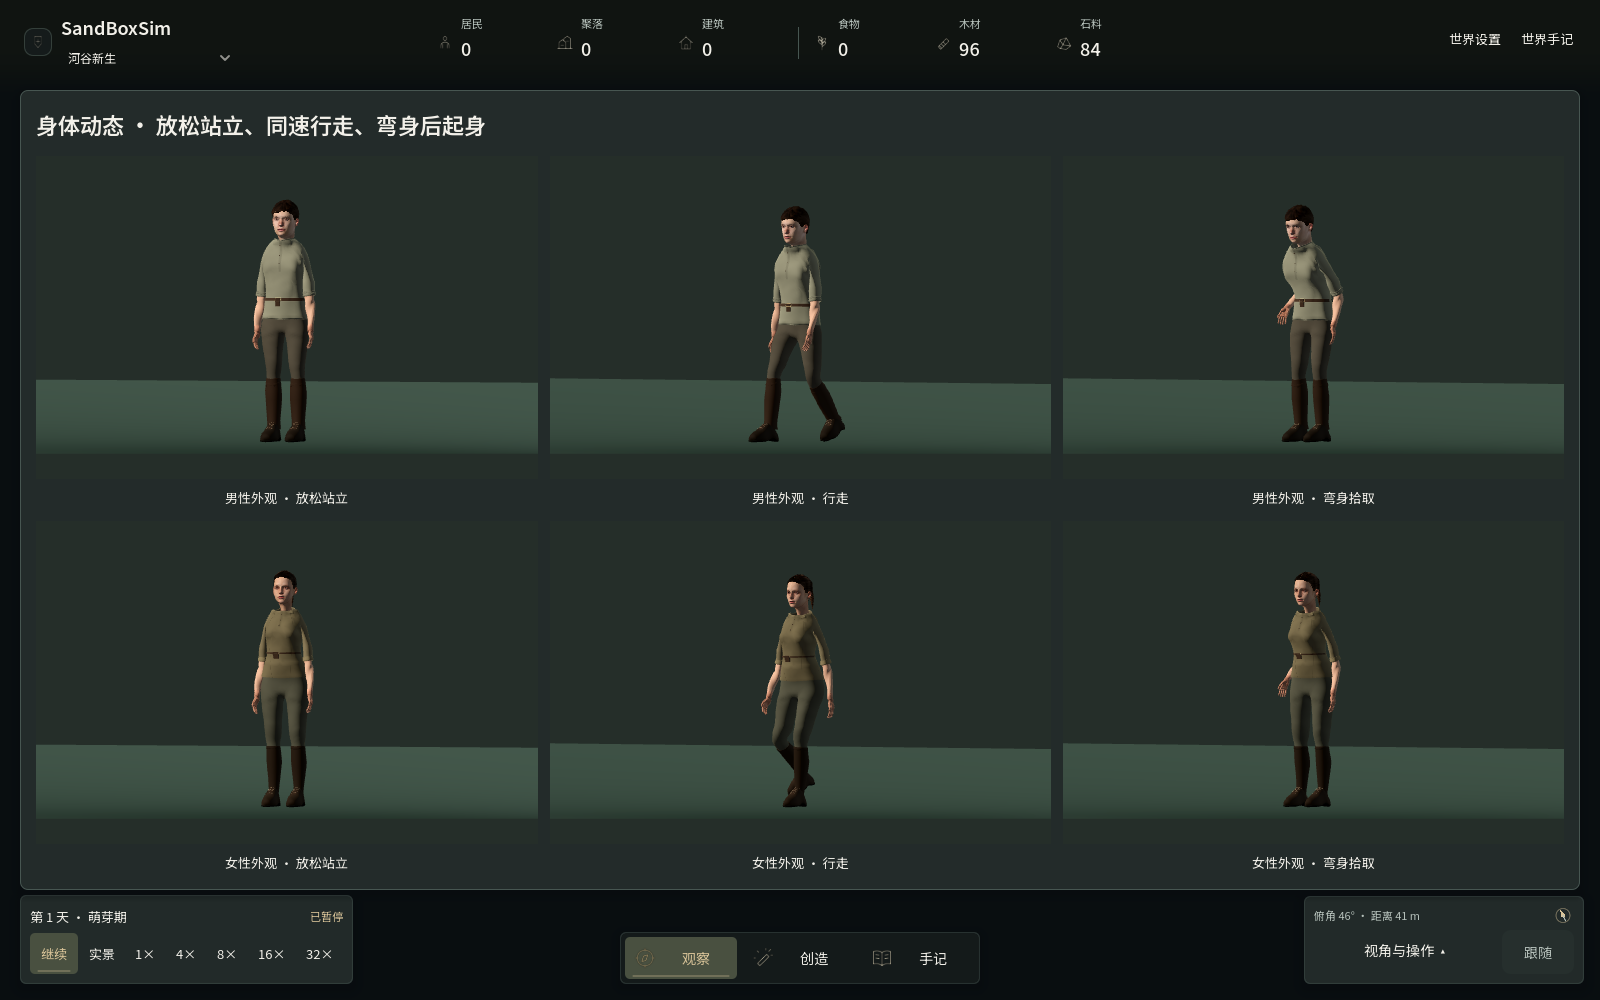
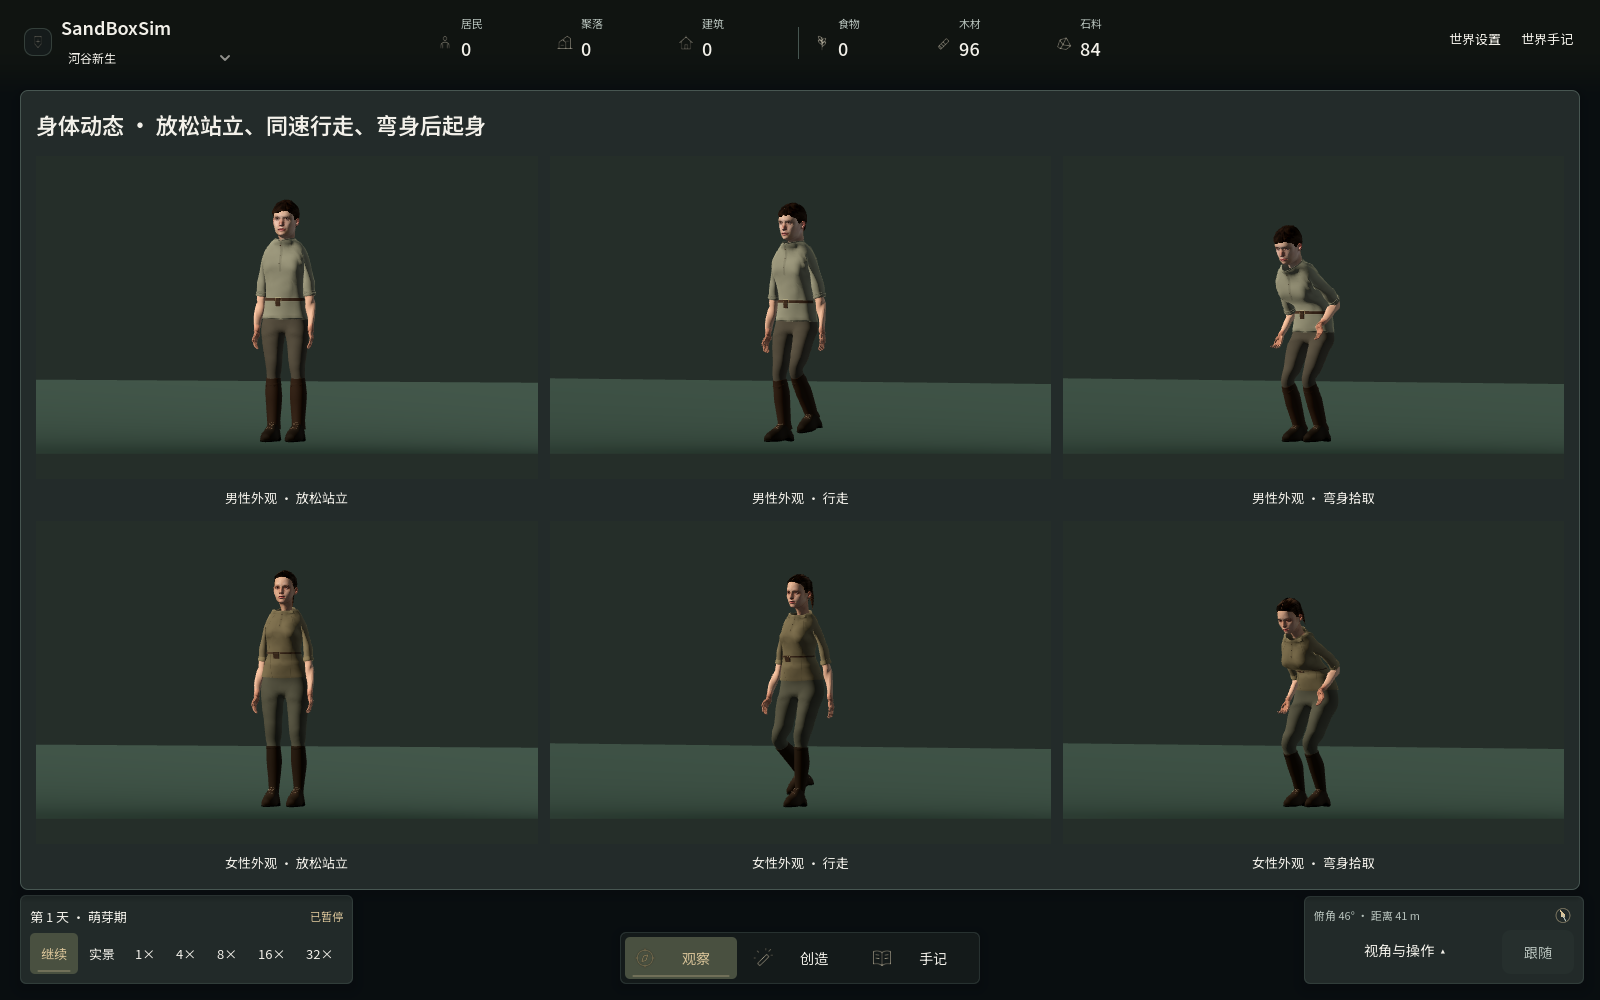
Shape female pelvic contours and preserve hip flex volume

Changed region(s): [[0.7812, 0.558, 0.8438, 0.806], [0.7812, 0.217, 0.8438, 0.434], [0.4688, 0.217, 0.5312, 0.465]]

diff --git a/src/SandBoxSim.Godot/NatureModels.Trousers.cs b/src/SandBoxSim.Godot/NatureModels.Trousers.cs
@@ -52,6 +52,13 @@ internal sealed partial class NatureModels
             FairRestSurface(points,ids,freedom,.006f,true);
             TransportFairingNormals(rest,points,normals,ids,freedom);
             FitFemaleTrouserLegs(points,normals,ids);
+            rest=(Vector3[])points.Clone();
+            for(int i=0;i<points.Length;i++)
+            {
+                points[i]=FemalePelvicPoint(rest[i]);
+                freedom[i]=points[i]==rest[i]?0:1;
+            }
+            TransportFairingNormals(rest,points,normals,ids,freedom);
         }
         var arrays=new Godot.Collections.Array();arrays.Resize((int)Mesh.ArrayType.Max);
         var seam=new Vector2[count];
@@ -66,7 +73,7 @@ internal sealed partial class NatureModels
         if(BodyFrame==1)
         {
             mesh.AddBlendShape("LeftHipFlex");mesh.AddBlendShape("RightHipFlex");
-            for(int side=0;side<2;side++)bends.Add(BakeTrouserHipFlex(points,normals,ids,side));
+            for(int side=0;side<2;side++)bends.Add(BakeTrouserHipFlex(points,normals,ids,b,w,side));
             mesh.AddBlendShape("LeftKneeFlex");mesh.AddBlendShape("RightKneeFlex");
             for(int side=0;side<2;side++)bends.Add(BakeTrouserKneeFlex(points,normals,ids,b,w,side));
         }
@@ -132,10 +139,13 @@ internal sealed partial class NatureModels
         return shape;
     }
 
-    private static Godot.Collections.Array BakeTrouserHipFlex(Vector3[] rest,Vector3[] restNormals,int[] ids,int side)
+    private const float TrouserHipFlexAngle=.62f;
+    private static Godot.Collections.Array BakeTrouserHipFlex(Vector3[] rest,Vector3[] restNormals,int[] ids,int[] bones,float[] weights,int side)
     {
         var points=(Vector3[])rest.Clone();var normals=(Vector3[])restNormals.Clone();
         var freedom=new float[rest.Length];
+        var rotation=new Basis(Vector3.Right,TrouserHipFlexAngle);
+        var pivot=new Vector3((side==0?-1:1)*ResidentRig.NeutralHipHalfWidth,ResidentRig.HipHeight,0);
         for(int i=0;i<rest.Length;i++)
         {
             var p=rest[i];float x=MathF.Abs(p.X);
@@ -143,10 +153,16 @@ internal sealed partial class NatureModels
             float panel=Mathf.SmoothStep(.54f,.65f,p.Y)*(1-Mathf.SmoothStep(.75f,.83f,p.Y))*Mathf.SmoothStep(.028f,.080f,x);
             float front=Mathf.SmoothStep(.014f,.071f,-p.Z),rear=Mathf.SmoothStep(.017f,.084f,p.Z);
             float fold=(p.Y-(.723f-.27f*(x-.09f)))/.034f;
-            float diagonal=.010f*MathF.Exp(-fold*fold)*front;
-            // The raised leg compresses the front cloth into a broad diagonal
-            // fold and retains a rounded transition behind the pelvis.
-            points[i].Z+=panel*(.007f*rear-diagonal);
+            float diagonal=.008f*MathF.Exp(-fold*fold)*front;
+            float thighWeight=0;
+            for(int j=0;j<4;j++)if(bones[i*4+j]==side+1)thighWeight+=weights[i*4+j];
+            var lever=p-pivot;
+            var linear=new Basis(Vector3.Right,Vector3.Up.Lerp(rotation.Y,thighWeight),Vector3.Back.Lerp(rotation.Z,thighWeight));
+            var arc=new Basis(Vector3.Right,TrouserHipFlexAngle*thighWeight)*lever;
+            // Restore the outside arc lost to linear skinning at the hip.
+            // The front of the bend retains the separate compression fold.
+            var edit=(linear.Inverse()*arc-lever)*rear-Vector3.Back*diagonal;
+            points[i]+=panel*edit.LimitLength(.010f);
             freedom[i]=panel*(front+rear);
         }
         TransportFairingNormals(rest,points,normals,ids,freedom);
@@ -267,7 +283,12 @@ internal sealed partial class NatureModels
                 if(skeleton.GetBonePose(1)!=frozen)throw new InvalidOperationException("Paused trousers continue moving");
                 for(int shape=0;shape<shapeWeights.Length;shape++)
                     if(shapeWeights[shape]!=rig.Trousers.GetBlendShapeValue(shape))throw new InvalidOperationException("Paused trouser correctives continue moving");
-                if(shapeWeights.Length>0)ValidateKneeCloth(rig,p,b,w,targets);
+                if(shapeWeights.Length>0)
+                {
+                    ValidateFemalePelvicContour(p,ids);
+                    ValidateHipCloth(p,b,w,targets);
+                    ValidateKneeCloth(rig,p,b,w,targets);
+                }
                 rig.ValidateDistanceMeshes();if(rig.Trousers.Mesh!=mesh)throw new InvalidOperationException("Distance change replaces the bound lower garment");
             }
             finally{rig.Free();}
@@ -279,6 +300,46 @@ internal sealed partial class NatureModels
         if(maximumKneeEdit<.003f||peakKneeWeights[0]<.1f||peakKneeWeights[1]<.1f)
             throw new InvalidOperationException($"Knee cloth does not respond in actual resident poses: {peakKneeWeights[0]:F3}/{peakKneeWeights[1]:F3}");
         GD.Print($"FEMALE_KNEE_FLEX_PASS: left/right peak={peakKneeWeights[0]:F3}/{peakKneeWeights[1]:F3}, maximum cloth edit={maximumKneeEdit*1000:F2} mm");
+    }
+
+    private static void ValidateFemalePelvicContour(Vector3[] points,int[] indices)
+    {
+        using var source=JsonDocument.Parse(FileAccess.GetFileAsString("res://assets/models/human/trousers-female.mesh.json"));
+        var coords=source.RootElement.GetProperty("positions");
+        var original=new Vector3[coords.GetArrayLength()/3];
+        for(int i=0;i<original.Length;i++)original[i]=new(coords[i*3].GetSingle(),coords[i*3+1].GetSingle(),coords[i*3+2].GetSingle());
+        var sourceTopology=source.RootElement.GetProperty("indices");
+        var originalIndices=new int[sourceTopology.GetArrayLength()];
+        for(int i=0;i<originalIndices.Length;i++)originalIndices[i]=sourceTopology[i].GetInt32();
+        float upper=GarmentDepth(original,originalIndices,.032f,.827f,true)-GarmentDepth(points,indices,.032f,.827f,true);
+        float lower=GarmentDepth(points,indices,.085f,.725f,true)-GarmentDepth(original,originalIndices,.085f,.725f,true);
+        if(!float.IsFinite(upper)||upper<.006f||upper>.013f||!float.IsFinite(lower)||lower<.001f||lower>.009f)
+            throw new InvalidOperationException($"Female pelvic contour loses its rear depth transition: upper={upper:F4}, lower={lower:F4}");
+        GD.Print($"FEMALE_PELVIC_CONTOUR_PASS: upper rear depth reduced by {upper*1000:F1} mm, rear thigh transition filled by {lower*1000:F1} mm on actual meshes");
+    }
+
+    private static void ValidateHipCloth(Vector3[] points,int[] bones,float[] weights,Vector3[][] targets)
+    {
+        float before=0,after=0;int samples=0;
+        var rotation=new Basis(Vector3.Right,TrouserHipFlexAngle);
+        for(int i=0;i<points.Length;i++)
+        {
+            var point=points[i];
+            if(point.Y<.67f||point.Y>.77f||point.Z<.060f||MathF.Abs(point.X)<.060f)continue;
+            int side=point.X<0?0:1;
+            float thigh=0;
+            for(int j=0;j<4;j++)if(bones[i*4+j]==side+1)thigh+=weights[i*4+j];
+            if(thigh<.15f||thigh>.85f)continue;
+            var axis=new Vector3(point.X,ResidentRig.HipHeight,0);
+            var lever=point-axis;
+            var corrected=targets[side][i]-axis;
+            before+=MathF.Abs(lever.Length()-lever.Lerp(rotation*lever,thigh).Length());
+            after+=MathF.Abs(lever.Length()-corrected.Lerp(rotation*corrected,thigh).Length());
+            samples++;
+        }
+        if(samples<20||after>=.80f*before)
+            throw new InvalidOperationException($"Hip correction does not preserve the rear cloth radius: {samples}, {before}/{after}");
+        GD.Print($"HIP_CLOTH_RADIUS_PASS: {samples} posterior samples, mean radius loss={1000*before/samples:F2} -> {1000*after/samples:F2} mm");
     }
 
     private static void ValidateKneeCloth(ResidentRig rig,Vector3[] points,int[] bones,float[] weights,Vector3[][] targets)

diff --git a/src/SandBoxSim.Godot/NatureModels.ThoraxSupport.cs b/src/SandBoxSim.Godot/NatureModels.ThoraxSupport.cs
@@ -39,6 +39,18 @@ internal sealed partial class NatureModels
             waist*((.0015f+.003f*abdomen)*front+.003f*lumbar));
     }
 
+    private static Vector3 FemalePelvicPoint(Vector3 point)
+    {
+        // Rebalance the sagittal contour between the upper seat and the
+        // rear thigh. Keep hip breadth, waistband and the inner leg fixed.
+        float rear=TorsoRamp(.026f,.076f,point.Z);
+        float upper=TorsoRamp(.774f,.819f,point.Y)*(1-TorsoRamp(.839f,.900f,point.Y));
+        float lower=TorsoRamp(.659f,.713f,point.Y)*(1-TorsoRamp(.740f,.794f,point.Y))
+            *TorsoRamp(.033f,.068f,MathF.Abs(point.X));
+        point.Z+=rear*(.005f*lower-.009f*upper);
+        return point;
+    }
+
     // Continuous anterior volume on the existing adult thorax, not attached
     // cup primitives. Leave the sternum, lateral wall and upper shoulder fixed.
     private static Vector3 ChestVolumePoint(Vector3 p)
@@ -108,11 +120,11 @@ internal sealed partial class NatureModels
         for(int row=0;row<TrunkRows;row++)
         {
             float y=TrunkLow+row*.005f;
-            if(y<=.875f||y>=1.235f)continue;
+            if(y>=1.235f)continue;
             for(int col=0;col<TrunkColumns;col++)
             {
                 float a=col*Mathf.Tau/TrunkColumns,r=source[row*TrunkColumns+col];
-                var p=ChestVolumePoint(BalancedTorsoPoint(MedialThoraxPoint(new(MathF.Cos(a)*r,y,MathF.Sin(a)*r))));
+                var p=FemalePelvicPoint(ChestVolumePoint(BalancedTorsoPoint(MedialThoraxPoint(new(MathF.Cos(a)*r,y,MathF.Sin(a)*r)))));
                 ring[col]=new(p.X,p.Z);
             }
             // Re-intersect the mapped polygon. Scaling radii directly would

diff --git a/docs/images/README.md b/docs/images/README.md
@@ -1,6 +1,6 @@
 # SandBoxSim 实机图册
 
-本页基础配图来自 2026-11-06 的 SandBoxSim 客户端，游戏源码为 `b396be219d860f4997484a092d051009afa97659`。同日的抬臂图采用后领与上背修形版本，步态对照静态图采用靴筒重塑版本，女性成衣、全身三视图和全身姿势图采用职业衣装分版后的模型。各批均使用 Godot 4.7.2 .NET 和 GL Compatibility，静态图默认 1600×1000。地图和人物观察窗使用世界中的实际对象，模型图册使用与世界共用的网格和控制器。帧号为从零开始的表现帧。
+本页基础配图来自 2026-11-06 的 SandBoxSim 客户端，游戏源码为 `b396be219d860f4997484a092d051009afa97659`。同日的抬臂图采用后领与上背修形版本，步态对照静态图采用靴筒重塑版本，女性成衣采用职业衣装分版后的模型，全身三视图和姿势图采用骨盆与大腿修形后的模型。各批均使用 Godot 4.7.2 .NET 和 GL Compatibility，静态图默认 1600×1000。地图和人物观察窗使用世界中的实际对象，模型图册使用与世界共用的网格和控制器。帧号为从零开始的表现帧。
 
 ## 世界与操作界面
 
@@ -38,7 +38,7 @@
 | 成人头脸 | `visual-faces`、`visual-face-frames` 第 90 帧 | [三种头脸](resident-face-detail.png) · [成人外观对照](resident-face-frames.png) |
 | 三种衣装的正背面 | `visual-wardrobe`、`visual-female-wardrobe` 第 90 帧 | [男性成衣](wardrobe-detail.png) · [女性成衣](resident-female-wardrobe.png) |
 | 手部、前臂和腕部 | `visual-hands`、`visual-forearm-frames` 第 90 帧，`visual-wrist-motion` 第 150 帧 | [握持](resident-hand-detail.png) · [前臂三视图](resident-forearm-frames.png) · [腕部近景](resident-wrist-motion.png) |
-| 静立、步行与拾取 | `visual-body-motion` 第 150 帧 | [全身姿势](resident-body-motion.png) |
+| 静立、步行与拾取 | `visual-body-motion` 第 105 帧 | [全身姿势](resident-body-motion.png) |
 | 同速步行、搬运和持锤 | `visual-locomotion` 第 180 帧 | [步态对照](resident-style-walk.png) |
 | 交谈、递交与进食 | `visual-social` 第 150 帧 | [生活动作](resident-social.png) |
 | 同工具与不同疲劳状态 | `visual-work-effort` 第 180 帧 | [作业姿态](resident-work-effort.png) |

diff --git a/docs/development/models.md b/docs/development/models.md
@@ -432,6 +432,8 @@
 
 ### 连续骨盆与臀腿裤装
 
+成年女性的后侧骨盆与大腿沿同一深度场过渡。上臀部的后向凸起收顺，后侧大腿上段保留少量体积。深度场同时应用于人体支撑截面和裤装，正面宽度、裤腰顶边及靴口保持原位。裤装的实际截面仍作为上衣的覆盖参考。抬腿时，后侧修形按髋骨权重补偿线性蒙皮在弧线中间损失的半径，前侧保留单独的压褶。`FEMALE_PELVIC_CONTOUR_PASS` 比较成品网格的后侧截面，`HIP_CLOTH_RADIUS_PASS` 检查固定弯曲姿态下的后侧半径，实际拾取、行走和作业另作连续姿态检查。[下半身体型的分区扫描研究](https://kftrj.org/_PR/view/?aidx=42667&bidx=3868) · [Blender Studio 姿态与衣装](https://studio.blender.org/training/realistic-human-research/clothing-shapes/)
+
 成年裤装使用 MakeHuman CC0 HM08 的 `helper-tights` 服装辅助表面，应用当前来源身体配方与参考形体转移，替换原来的截面骨盆和两条规则大腿。`trousers-male.mesh.json` 为 2,741 顶点／5,328 三角面，女性文件为 2,591 顶点／5,008 三角面；保留来源的臀腿曲率，一级细分后重新计算法线。它是完整衣料表面，不导入裸露身体或另叠加球形臀部。
 
 `reference-contour-physique-v31` 裤装从两套来源服装辅助表面重新导出，以来源骨盆截面加 5 毫米松量约束腰臀，上腿另保留有边界的衣料间隙；基础压褶靠近髋部和靴口，幅度不超过 2.5 毫米；细分后另加入 −4 至 +6 毫米范围内的受支撑褶皱和侧缝，并对裤裆极窄翻折作局部松弛，保留原始拓扑。两套裤装的骨盆及臀部不另叠加体积偏移，靴口保持连接。导出器和运行加载器共同检查米制范围，防止局部位移逃逸为远离身体的几何；法线按最终表面重算。

diff --git a/CHANGELOG.md b/CHANGELOG.md
@@ -4,6 +4,7 @@
 
 ## 2026-11-06
 
+- 女性骨盆后侧和大腿采用同一套深度修形，收顺衣摆下方到后侧大腿的轮廓。抬腿时，裤装后侧用髋关节弧线补偿蒙皮压缩。
 - 女性三款职业衣装使用独立下摆轮廓和染色。工作衫保留较平直的下缘，采集短衣两侧抬高，商人外套在腰下展开并延长后片。
 - 女性靴筒重塑为后侧小腿肚饱满、踝部逐渐收窄的轮廓。靴口前高后低，脚踝末段延伸到鞋面内部。
 - 女性三款上衣重塑后领下方的上背轮廓。原本外突的衣面平缓接回领口，后育克使用一条随衣面变形的弧形缝线。
